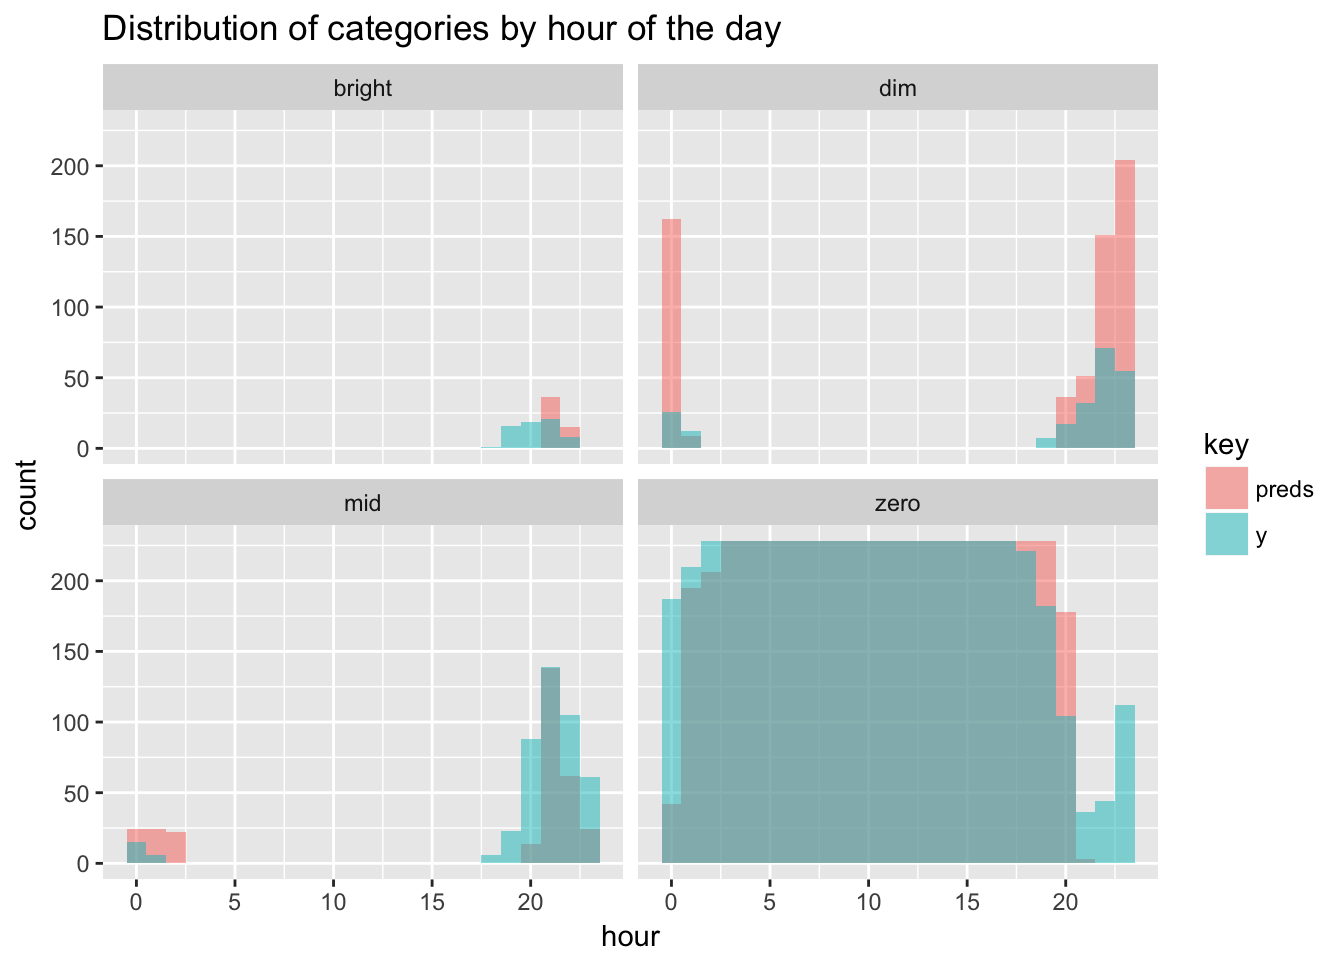
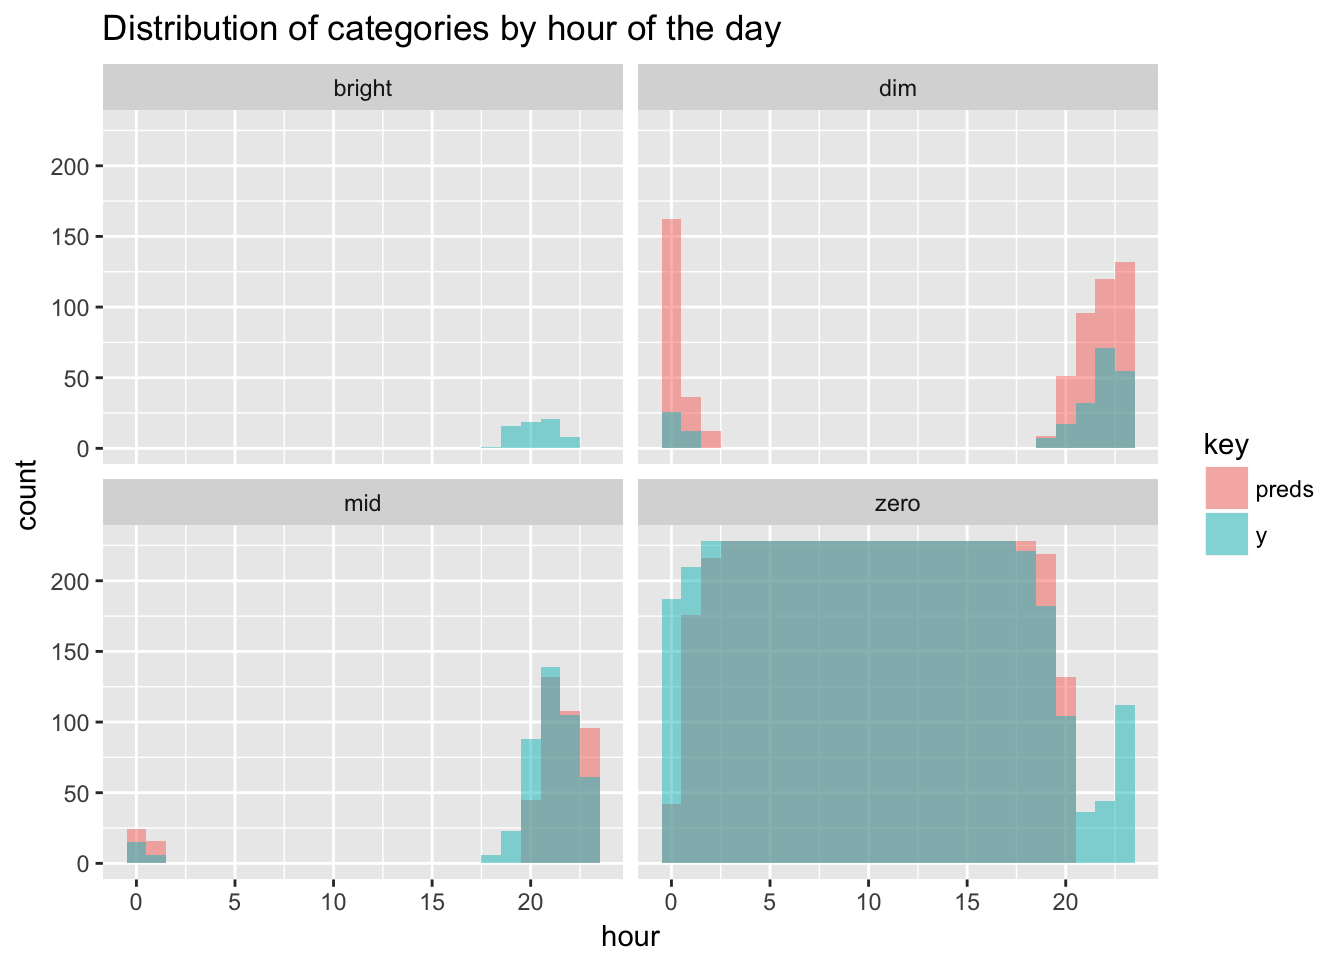
fix3

diff --git a/blog/self-learning-hue-lights/index.html b/blog/self-learning-hue-lights/index.html
@@ -44,10 +44,10 @@
 
 
     
-    <link rel="stylesheet" href="../../css/reset.css?t=1510184498">
-    <link rel="stylesheet" href="../../css/main.css?t=1510184498">
+    <link rel="stylesheet" href="../../css/reset.css?t=1510184712">
+    <link rel="stylesheet" href="../../css/main.css?t=1510184712">
     
-        <link rel="stylesheet" href="../../css/override.css?t=1510184498">
+        <link rel="stylesheet" href="../../css/override.css?t=1510184712">
     
 
 
@@ -277,10 +277,10 @@ gbmFit &lt;- train(y ~ ., data = training,
 table(preds, testing$y)</code></pre>
 <pre><code>##         
 ## preds     dim  mid bright zero
-##   dim     105  184     15  309
-##   mid      55  104     21  128
-##   bright   16   34      0    1
-##   zero     44  121     29 4306</code></pre>
+##   dim      91  189     33  305
+##   mid      90  164      6  161
+##   bright    0    0      0    0
+##   zero     39   90     26 4278</code></pre>
 <p>Most mistakes are made trying to classify bright and mid. The model gets 0 bright values right and only manages to do so correctly 14% of the time for mid. But when do errors happen? To dig a little deeper let’s look at the previous histogram of categories by hour again for the test set, but now with the predictions overlaid on top.</p>
 <p><img src="../../blog/2017/2017-05-14-hue_files/figure-html/unnamed-chunk-11-1.png" width="672" /></p>
 <p>Bright values were always going be hard to guess, but the model at least comes close in terms of hours, but off on the exact days. The majority of misclassification comes from overzealously predicting dim in the evening and around midnight, when it should really be either mid or zero. That looks like a workable scenario for me.</p>

diff --git a/blog/a-tidy-text-analysis-of-rick-and-morty/index.html b/blog/a-tidy-text-analysis-of-rick-and-morty/index.html
@@ -44,10 +44,10 @@
 
 
     
-    <link rel="stylesheet" href="../../css/reset.css?t=1510184498">
-    <link rel="stylesheet" href="../../css/main.css?t=1510184498">
+    <link rel="stylesheet" href="../../css/reset.css?t=1510184712">
+    <link rel="stylesheet" href="../../css/main.css?t=1510184712">
     
-        <link rel="stylesheet" href="../../css/override.css?t=1510184498">
+        <link rel="stylesheet" href="../../css/override.css?t=1510184712">
     
 
 

diff --git a/blog/an-animated-neural-net-implementation/index.html b/blog/an-animated-neural-net-implementation/index.html
@@ -44,10 +44,10 @@
 
 
     
-    <link rel="stylesheet" href="../../css/reset.css?t=1510184498">
-    <link rel="stylesheet" href="../../css/main.css?t=1510184498">
+    <link rel="stylesheet" href="../../css/reset.css?t=1510184712">
+    <link rel="stylesheet" href="../../css/main.css?t=1510184712">
     
-        <link rel="stylesheet" href="../../css/override.css?t=1510184498">
+        <link rel="stylesheet" href="../../css/override.css?t=1510184712">
     
 
 

diff --git a/blog/analyzing-my-spotify-listening-history/index.html b/blog/analyzing-my-spotify-listening-history/index.html
@@ -44,10 +44,10 @@
 
 
     
-    <link rel="stylesheet" href="../../css/reset.css?t=1510184498">
-    <link rel="stylesheet" href="../../css/main.css?t=1510184498">
+    <link rel="stylesheet" href="../../css/reset.css?t=1510184712">
+    <link rel="stylesheet" href="../../css/main.css?t=1510184712">
     
-        <link rel="stylesheet" href="../../css/override.css?t=1510184498">
+        <link rel="stylesheet" href="../../css/override.css?t=1510184712">
     
 
 

diff --git a/blog/creating-a-spotify-playlist-using-luigi/index.html b/blog/creating-a-spotify-playlist-using-luigi/index.html
@@ -44,10 +44,10 @@
 
 
     
-    <link rel="stylesheet" href="../../css/reset.css?t=1510184498">
-    <link rel="stylesheet" href="../../css/main.css?t=1510184498">
+    <link rel="stylesheet" href="../../css/reset.css?t=1510184712">
+    <link rel="stylesheet" href="../../css/main.css?t=1510184712">
     
-        <link rel="stylesheet" href="../../css/override.css?t=1510184498">
+        <link rel="stylesheet" href="../../css/override.css?t=1510184712">
     
 
 

diff --git a/blog/starting-a-blogdown/index.html b/blog/starting-a-blogdown/index.html
@@ -44,10 +44,10 @@
 
 
     
-    <link rel="stylesheet" href="../../css/reset.css?t=1510184498">
-    <link rel="stylesheet" href="../../css/main.css?t=1510184498">
+    <link rel="stylesheet" href="../../css/reset.css?t=1510184712">
+    <link rel="stylesheet" href="../../css/main.css?t=1510184712">
     
-        <link rel="stylesheet" href="../../css/override.css?t=1510184498">
+        <link rel="stylesheet" href="../../css/override.css?t=1510184712">
     
 
 

diff --git a/categories/r/index.html b/categories/r/index.html
@@ -44,10 +44,10 @@
 
 
     
-    <link rel="stylesheet" href="../../css/reset.css?t=1510184498">
-    <link rel="stylesheet" href="../../css/main.css?t=1510184498">
+    <link rel="stylesheet" href="../../css/reset.css?t=1510184712">
+    <link rel="stylesheet" href="../../css/main.css?t=1510184712">
     
-        <link rel="stylesheet" href="../../css/override.css?t=1510184498">
+        <link rel="stylesheet" href="../../css/override.css?t=1510184712">
     
 
 

diff --git a/tags/ai/index.html b/tags/ai/index.html
@@ -44,10 +44,10 @@
 
 
     
-    <link rel="stylesheet" href="../../css/reset.css?t=1510184498">
-    <link rel="stylesheet" href="../../css/main.css?t=1510184498">
+    <link rel="stylesheet" href="../../css/reset.css?t=1510184712">
+    <link rel="stylesheet" href="../../css/main.css?t=1510184712">
     
-        <link rel="stylesheet" href="../../css/override.css?t=1510184498">
+        <link rel="stylesheet" href="../../css/override.css?t=1510184712">
     
 
 

diff --git a/tags/deep-learning/index.html b/tags/deep-learning/index.html
@@ -44,10 +44,10 @@
 
 
     
-    <link rel="stylesheet" href="../../css/reset.css?t=1510184498">
-    <link rel="stylesheet" href="../../css/main.css?t=1510184498">
+    <link rel="stylesheet" href="../../css/reset.css?t=1510184712">
+    <link rel="stylesheet" href="../../css/main.css?t=1510184712">
     
-        <link rel="stylesheet" href="../../css/override.css?t=1510184498">
+        <link rel="stylesheet" href="../../css/override.css?t=1510184712">
     
 
 

diff --git a/tags/dplyr/index.html b/tags/dplyr/index.html
@@ -44,10 +44,10 @@
 
 
     
-    <link rel="stylesheet" href="../../css/reset.css?t=1510184498">
-    <link rel="stylesheet" href="../../css/main.css?t=1510184498">
+    <link rel="stylesheet" href="../../css/reset.css?t=1510184712">
+    <link rel="stylesheet" href="../../css/main.css?t=1510184712">
     
-        <link rel="stylesheet" href="../../css/override.css?t=1510184498">
+        <link rel="stylesheet" href="../../css/override.css?t=1510184712">
     
 
 

diff --git a/tags/ggplot/index.html b/tags/ggplot/index.html
@@ -44,10 +44,10 @@
 
 
     
-    <link rel="stylesheet" href="../../css/reset.css?t=1510184498">
-    <link rel="stylesheet" href="../../css/main.css?t=1510184498">
+    <link rel="stylesheet" href="../../css/reset.css?t=1510184712">
+    <link rel="stylesheet" href="../../css/main.css?t=1510184712">
     
-        <link rel="stylesheet" href="../../css/override.css?t=1510184498">
+        <link rel="stylesheet" href="../../css/override.css?t=1510184712">
     
 
 

diff --git a/tags/hue/index.html b/tags/hue/index.html
@@ -44,10 +44,10 @@
 
 
     
-    <link rel="stylesheet" href="../../css/reset.css?t=1510184498">
-    <link rel="stylesheet" href="../../css/main.css?t=1510184498">
+    <link rel="stylesheet" href="../../css/reset.css?t=1510184712">
+    <link rel="stylesheet" href="../../css/main.css?t=1510184712">
     
-        <link rel="stylesheet" href="../../css/override.css?t=1510184498">
+        <link rel="stylesheet" href="../../css/override.css?t=1510184712">
     
 
 
